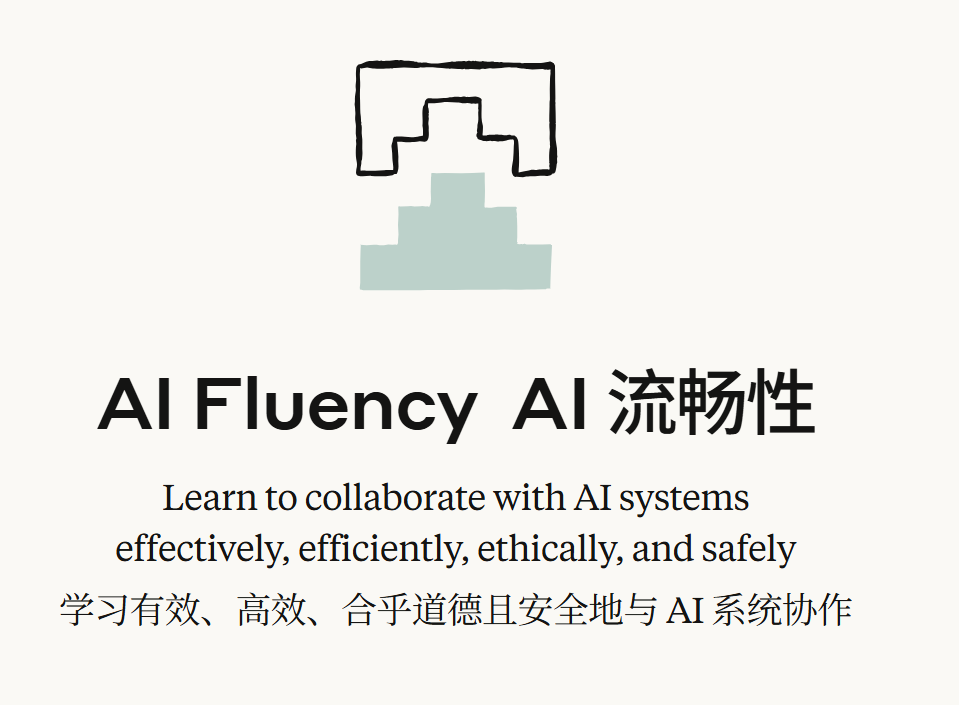
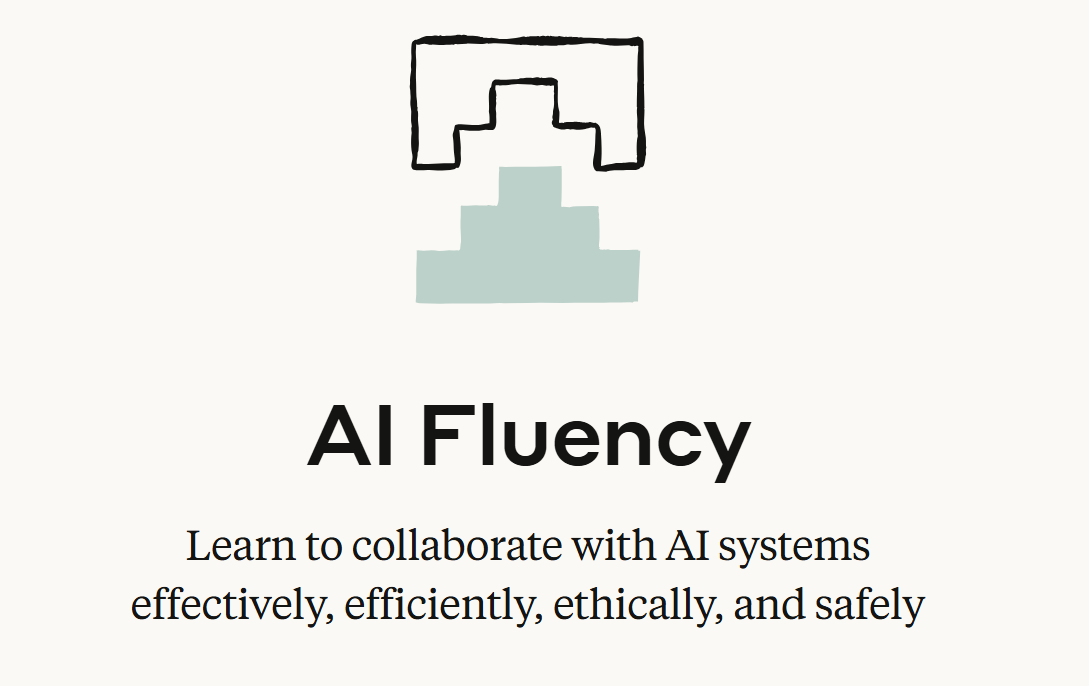
refactor(ui): 优化AI素养课程页面布局和样式

Changed region(s): [[0.0605, 0.5204, 0.9072, 0.9184], [0.3629, 0.0306, 0.6048, 0.4592]]

diff --git a/study/ai_fluency/index.html b/study/ai_fluency/index.html
@@ -16,7 +16,7 @@
     <style>
         :root {
             --primary-color: #2563eb;
-            --primary-dark: #1d4ed8;
+
             --secondary-color: #f1f5f9;
             --accent-color: #06b6d4;
             --text-primary: #1f2937;
@@ -25,23 +25,12 @@
             --shadow-light: 0 1px 3px 0 rgba(0, 0, 0, 0.1), 0 1px 2px 0 rgba(0, 0, 0, 0.06);
             --shadow-medium: 0 4px 6px -1px rgba(0, 0, 0, 0.1), 0 2px 4px -1px rgba(0, 0, 0, 0.06);
             --shadow-large: 0 20px 25px -5px rgba(0, 0, 0, 0.1), 0 10px 10px -5px rgba(0, 0, 0, 0.04);
-            --gradient-primary: linear-gradient(135deg, #667eea 0%, #764ba2 100%);
+            --gradient-primary: linear-gradient(135deg, #e0f2fe 0%, #f8fafc 100%);
             --gradient-secondary: linear-gradient(135deg, #f093fb 0%, #f5576c 100%);
             --gradient-accent: linear-gradient(135deg, #4facfe 0%, #00f2fe 100%);
         }
         
-        [data-theme="dark"] {
-            --primary-color: #3b82f6;
-            --primary-dark: #2563eb;
-            --secondary-color: #1f2937;
-            --accent-color: #06b6d4;
-            --text-primary: #f9fafb;
-            --text-secondary: #d1d5db;
-            --border-color: #374151;
-            --shadow-light: 0 1px 3px 0 rgba(0, 0, 0, 0.3), 0 1px 2px 0 rgba(0, 0, 0, 0.2);
-            --shadow-medium: 0 4px 6px -1px rgba(0, 0, 0, 0.3), 0 2px 4px -1px rgba(0, 0, 0, 0.2);
-            --shadow-large: 0 20px 25px -5px rgba(0, 0, 0, 0.3), 0 10px 10px -5px rgba(0, 0, 0, 0.2);
-        }
+
         
         * {
             margin: 0;
@@ -81,9 +70,7 @@
             transition: all 0.3s ease;
         }
         
-        [data-theme="dark"] .navbar {
-            background: rgba(31, 41, 55, 0.95);
-        }
+
         
         .nav-container {
             max-width: 1200px;
@@ -122,30 +109,12 @@
             background: rgba(37, 99, 235, 0.1);
         }
         
-        .theme-toggle {
-            background: none;
-            border: 2px solid var(--border-color);
-            color: var(--text-primary);
-            padding: 0.5rem 1rem;
-            border-radius: 0.5rem;
-            cursor: pointer;
-            display: flex;
-            align-items: center;
-            gap: 0.5rem;
-            font-size: 0.875rem;
-            transition: all 0.3s ease;
-        }
-        
-        .theme-toggle:hover {
-            border-color: var(--primary-color);
-            color: var(--primary-color);
-        }
+
         
         .hero {
             background: var(--gradient-primary);
-            color: white;
+            color: var(--text-primary);
             padding: 5rem 0 4rem;
-            text-align: center;
             position: relative;
             overflow: hidden;
         }
@@ -167,33 +136,102 @@
             z-index: 1;
             max-width: 1200px;
             margin: 0 auto;
-            padding: 0 1rem;
+            padding: 0 2rem;
+            display: flex;
+            align-items: center;
+            gap: 4rem;
+            min-height: 500px;
+        }
+        
+        .hero-text {
+            flex: 1;
+            text-align: left;
+        }
+        
+        .hero-visual {
+            flex: 1;
+            display: flex;
+            justify-content: center;
+            align-items: center;
         }
         
         .hero h1 {
             font-size: 3.5rem;
             font-weight: 700;
             margin-bottom: 1.5rem;
-            background: linear-gradient(45deg, #ffffff, #e0e7ff);
+            background: linear-gradient(45deg, var(--primary-color), var(--accent-color));
             -webkit-background-clip: text;
             -webkit-text-fill-color: transparent;
             background-clip: text;
+            white-space: nowrap;
         }
         
         .hero-subtitle {
             font-size: 1.25rem;
-            margin-bottom: 1rem;
-            opacity: 0.9;
-            max-width: 800px;
-            margin-left: auto;
-            margin-right: auto;
+            margin-bottom: 2rem;
+            color: var(--text-secondary);
+            line-height: 1.6;
         }
         
         .hero-image {
-            max-width: 400px;
-            margin: 0rem auto;
+            max-width: 100%;
+            height: auto;
             border-radius: 1rem;
             box-shadow: var(--shadow-large);
+        }
+        
+        .hero-features {
+            display: flex;
+            gap: 2rem;
+            margin-top: 2rem;
+        }
+        
+        .feature-item {
+            display: flex;
+            align-items: center;
+            gap: 0.5rem;
+            padding: 0.75rem 1.5rem;
+            background: rgba(37, 99, 235, 0.1);
+            border: 1px solid rgba(37, 99, 235, 0.2);
+            border-radius: 2rem;
+            color: var(--primary-color);
+            font-weight: 500;
+            transition: all 0.3s ease;
+        }
+        
+        .feature-item:hover {
+            background: rgba(37, 99, 235, 0.15);
+            transform: translateY(-2px);
+        }
+        
+        .feature-item i {
+            font-size: 1.1rem;
+        }
+        
+        @media (max-width: 768px) {
+            .hero-content {
+                flex-direction: column;
+                text-align: center;
+                gap: 2rem;
+            }
+            
+            .hero-text {
+                text-align: center;
+            }
+            
+            .hero h1 {
+                font-size: 2.5rem;
+            }
+            
+            .hero-features {
+                flex-direction: column;
+                gap: 1rem;
+                align-items: center;
+            }
+            
+            .feature-item {
+                justify-content: center;
+            }
         }
         
         .container {
@@ -236,9 +274,7 @@
             border: 1px solid var(--border-color);
         }
         
-        [data-theme="dark"] .framework-overview {
-            background: #374151;
-        }
+
         
         .framework-grid {
             display: grid;
@@ -258,9 +294,7 @@
             overflow: hidden;
         }
         
-        [data-theme="dark"] .framework-card {
-            background: #374151;
-        }
+
         
         .framework-card::before {
             content: '';
@@ -302,9 +336,7 @@
             margin-bottom: 1.5rem;
         }
         
-        [data-theme="dark"] .content-card {
-            background: #374151;
-        }
+
         
         .content-title {
             font-size: 2rem;
@@ -336,9 +368,7 @@
             transition: all 0.3s ease;
         }
         
-        [data-theme="dark"] .image-card {
-            background: #4b5563;
-        }
+
         
         .image-card:hover {
             transform: translateY(-2px);
@@ -409,10 +439,7 @@
             position: relative;
         }
         
-        [data-theme="dark"] .highlight-box {
-            background: linear-gradient(135deg, #451a03 0%, #78350f 100%);
-            border-color: #d97706;
-        }
+
         
         .highlight-box::before {
             content: '💡';
@@ -430,10 +457,7 @@
             margin: 2rem 0;
         }
         
-        [data-theme="dark"] .prompt-engineering {
-            background: linear-gradient(135deg, #064e3b 0%, #065f46 100%);
-            border-color: #059669;
-        }
+
         
         .prompt-engineering h4 {
             color: #065f46;
@@ -442,9 +466,7 @@
             font-weight: 600;
         }
         
-        [data-theme="dark"] .prompt-engineering h4 {
-            color: #6ee7b7;
-        }
+
         
         .prompt-engineering ul {
             list-style: none;
@@ -477,9 +499,7 @@
             margin: 2rem 0;
         }
         
-        [data-theme="dark"] .visualization-section {
-            background: #374151;
-        }
+
         
 
         
@@ -686,10 +706,10 @@
                 <a href="#description" class="nav-item" data-section="description">描述</a>
                 <a href="#discernment" class="nav-item" data-section="discernment">辨别</a>
                 <a href="#diligence" class="nav-item" data-section="diligence">尽职</a>
-                <button class="theme-toggle" id="themeToggle">
-                    <i class="fas fa-moon" id="themeIcon"></i>
-                    <span id="themeText">深色模式</span>
-                </button>
+                <a href="https://www.anthropic.com/ai-fluency" class="nav-item" target="_blank" rel="noopener noreferrer">
+                    <i class="fas fa-external-link-alt"></i> 原课程
+                </a>
+
             </div>
         </div>
     </nav>
@@ -697,9 +717,13 @@
     <!-- Hero Section -->
     <section class="hero">
         <div class="hero-content">
-            <h1>AnthropicAI素养课程</h1>
-            <p class="hero-subtitle">掌握与AI协作的核心能力，构建高效、安全、合乎道德的人机协作关系</p>
-            <img src="./core_concepts/title.png" alt="课程标题" class="hero-image">
+            <div class="hero-text">
+                <h1>Anthropic AI素养课程</h1>
+                <p class="hero-subtitle">学习有效、高效、合乎道德且安全地与 AI 系统协作</p>
+            </div>
+            <div class="hero-visual">
+                <img src="./core_concepts/title.png" alt="课程标题" class="hero-image">
+            </div>
         </div>
     </section>
     
@@ -1036,35 +1060,7 @@
     </div>
     
     <script>
-        // Theme Management
-        const themeToggle = document.getElementById('themeToggle');
-        const themeIcon = document.getElementById('themeIcon');
-        const themeText = document.getElementById('themeText');
-        const html = document.documentElement;
-        
-        // Initialize theme
-        const savedTheme = localStorage.getItem('theme') || 
-            (window.matchMedia('(prefers-color-scheme: dark)').matches ? 'dark' : 'light');
-        
-        function setTheme(theme) {
-            if (theme === 'dark') {
-                html.setAttribute('data-theme', 'dark');
-                themeIcon.className = 'fas fa-sun';
-                themeText.textContent = '浅色模式';
-            } else {
-                html.removeAttribute('data-theme');
-                themeIcon.className = 'fas fa-moon';
-                themeText.textContent = '深色模式';
-            }
-            localStorage.setItem('theme', theme);
-        }
-        
-        setTheme(savedTheme);
-        
-        themeToggle.addEventListener('click', () => {
-            const currentTheme = html.getAttribute('data-theme');
-            setTheme(currentTheme === 'dark' ? 'light' : 'dark');
-        });
+
         
         // Scroll Progress
         const scrollProgress = document.getElementById('scrollProgress');
@@ -1105,8 +1101,13 @@
         // Smooth scrolling for navigation
         navItems.forEach(item => {
             item.addEventListener('click', (e) => {
+                const href = item.getAttribute('href');
+                // Skip external links
+                if (href.startsWith('http') || href.startsWith('//')) {
+                    return;
+                }
                 e.preventDefault();
-                const targetId = item.getAttribute('href').substring(1);
+                const targetId = href.substring(1);
                 const targetSection = document.getElementById(targetId);
                 if (targetSection) {
                     targetSection.scrollIntoView({

diff --git a/fitness/hiit/note.html b/fitness/hiit/note.html
@@ -290,10 +290,10 @@
                     <div>
                         <h3 class="text-xl font-semibold mb-4 flex items-center">
                             <i class="fas fa-lightbulb mr-2 text-yellow-500"></i>
-                            核心理念
+                            说明
                         </h3>
                         <p class="text-gray-600 dark:text-gray-300 mb-4">
-                            在Deepseek官网开启深度思考模式，使用最新推理模型（DeepSeek-R1-0528）一句话生成完整的HIIT训练网页应用。
+                            在Deepseek官网开启深度思考模式，使用最新推理模型（DeepSeek-R1-0528），输入以下提示词，一句话生成HIIT训练网页应用。
                         </p>
                         
                         <div class="highlight-box">
